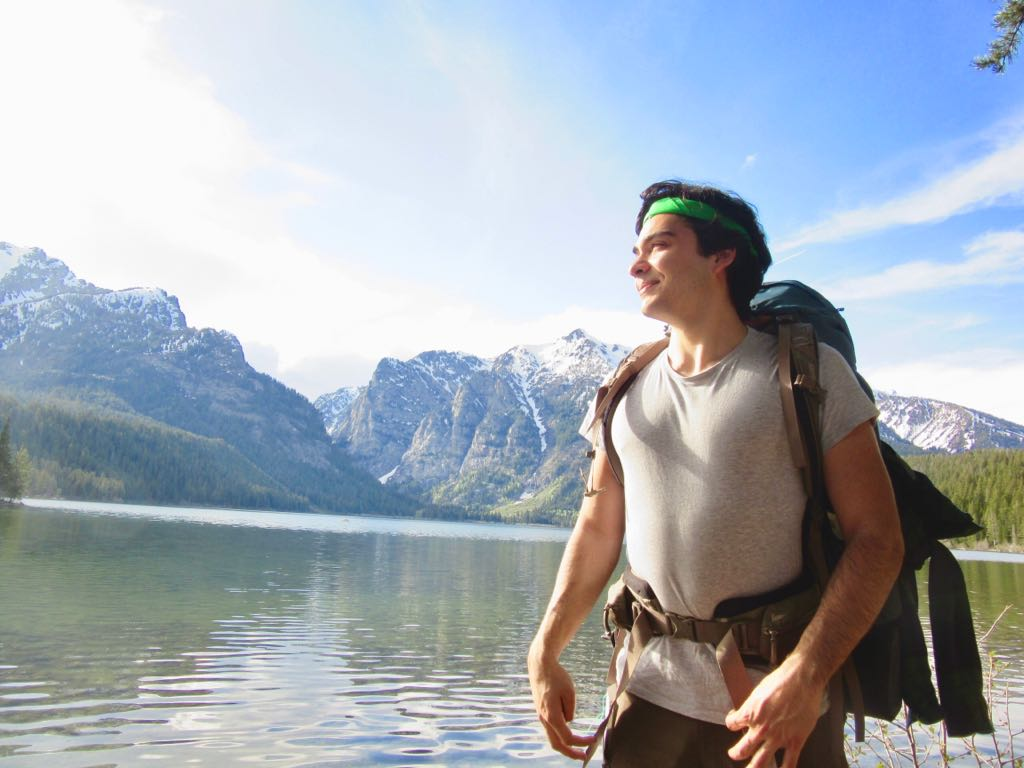
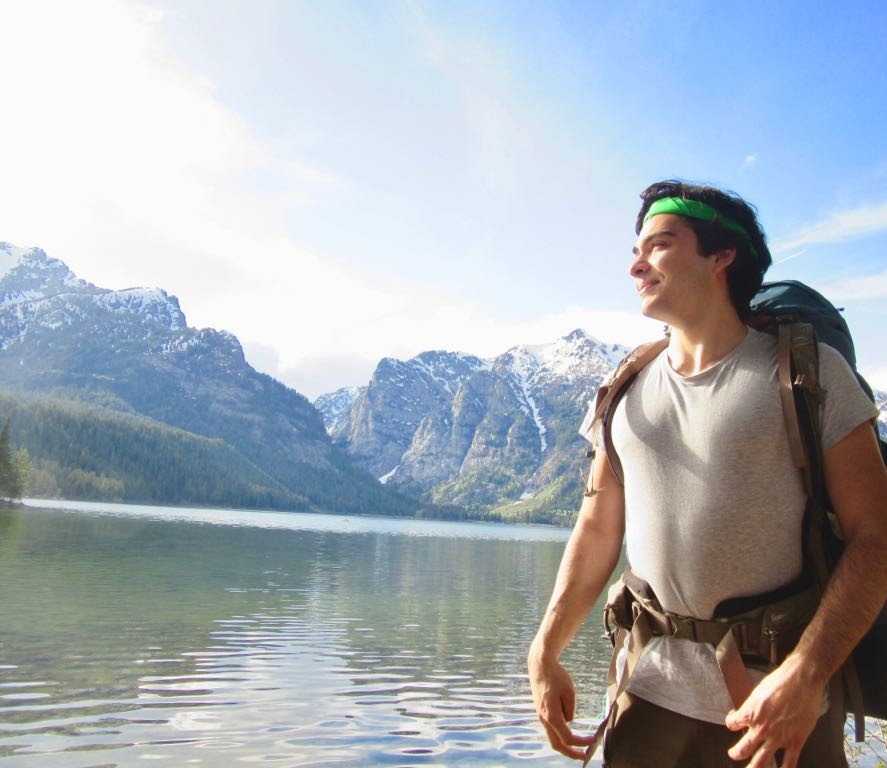
build3

diff --git a/index.html b/index.html
@@ -110,7 +110,7 @@
   <meta property="og:description" content="Undergraduate High Energy Physics Researcher"><meta property="og:image" content="https://georgehalal.github.io/img/IMG-4394.jpg">
   <meta property="og:locale" content="en-us">
   
-  <meta property="og:updated_time" content="2016-04-20T00:00:00-04:00">
+  <meta property="og:updated_time" content="2018-12-25T00:00:00-05:00">
   
 
   
@@ -473,7 +473,7 @@
           <li>
             <i class="fa-li fas fa-graduation-cap"></i>
             <div class="description">
-              <p class="course">High School, GPA: 4.00/4.00, Valedictorian, 2015</p>
+              <p class="course">High School, GPA: 4.00/4.00 (Valedictorian), 2015</p>
               <p class="institution">Eastwood International School, Beirut, Lebanon</p>
             </div>
           </li>
@@ -581,7 +581,7 @@
     
   
   <div class="col-12 col-sm-4">
-    <div class="featurette-icon"><i class="fas fa-tools"></i></div>
+    <div class="featurette-icon"><i class="fas fa-screwdriver"></i></div>
     <h3>Machine Shop</h3>
     <p>Metalworking &amp; Soldering, Woodworking, 3D printing</p>
   </div>
@@ -606,6 +606,115 @@
   
   
   
+  <section id="projects" class="home-section">
+    <div class="container">
+      
+
+
+
+
+
+
+
+<div class="row">
+  <div class="col-xs-12 col-md-4 section-heading">
+
+    <h1>Galleries</h1>
+    
+
+  </div>
+  <div class="col-xs-12 col-md-8">
+
+
+
+    
+
+    
+
+    <div class="row isotope projects-container js-layout-masonry ">
+      
+        
+        
+        
+          
+          
+        
+        
+          
+
+
+
+
+
+
+
+
+<div class="col-12 col-md-6 col-lg-4 project-item isotope-item js-id-Personal">
+  <div class="card">
+    
+    
+    <a href="https://photos.app.goo.gl/9QYQGXc6cE6xcK2HA" target="_blank" rel="noopener" class="card-image hover-overlay">
+      <img src="/project/personal/featured_huc0af036717db7c6f1665a8ee7a2e854b_132845_550x0_resize_q90_box.jpg" alt="" class="img-responsive">
+    </a>
+    
+    <div class="card-text">
+      <h4><a href="https://photos.app.goo.gl/9QYQGXc6cE6xcK2HA" target="_blank" rel="noopener">Personal</a></h4>
+      <div class="card-desription">
+        <p>A little glimpse of my life outside of research.</p>
+      </div>
+    </div>
+  </div>
+</div>
+
+        
+      
+        
+        
+        
+          
+          
+        
+        
+          
+
+
+
+
+
+
+
+
+<div class="col-12 col-md-6 col-lg-4 project-item isotope-item js-id-Research">
+  <div class="card">
+    
+    
+    <a href="https://photos.app.goo.gl/9c8oGNHsRDby5nmY7" target="_blank" rel="noopener" class="card-image hover-overlay">
+      <img src="/project/research/featured_hu21947e3bc96ed850046b815eae70687b_1294311_550x0_resize_q90_box.jpg" alt="" class="img-responsive">
+    </a>
+    
+    <div class="card-text">
+      <h4><a href="https://photos.app.goo.gl/9c8oGNHsRDby5nmY7" target="_blank" rel="noopener">Research</a></h4>
+      <div class="card-desription">
+        <p>Some of my hardware projects and groups I have worked with.</p>
+      </div>
+    </div>
+  </div>
+</div>
+
+        
+      
+    </div>
+
+  </div>
+</div>
+
+    </div>
+  </section>
+  
+
+  
+  
+  
   <section id="experience" class="home-section">
     <div class="container">
       
@@ -614,7 +723,7 @@
 
 <div class="row">
   <div class="col-12 col-lg-4 section-heading">
-    <h1>Analysis Experience</h1>
+    <h1>Analysis Projects</h1>
     
   </div>
   <div class="col-12 col-lg-8">
@@ -777,7 +886,7 @@
 
 <div class="row">
   <div class="col-12 col-lg-4 section-heading">
-    <h1>Hardware Experience</h1>
+    <h1>Hardware Projects</h1>
     
   </div>
   <div class="col-12 col-lg-8">
@@ -872,115 +981,6 @@
     </div>
     
     
-  </div>
-</div>
-
-    </div>
-  </section>
-  
-
-  
-  
-  
-  <section id="projects" class="home-section">
-    <div class="container">
-      
-
-
-
-
-
-
-
-<div class="row">
-  <div class="col-xs-12 col-md-4 section-heading">
-
-    <h1>Galleries</h1>
-    
-
-  </div>
-  <div class="col-xs-12 col-md-8">
-
-
-
-    
-
-    
-
-    <div class="row isotope projects-container js-layout-masonry ">
-      
-        
-        
-        
-          
-          
-        
-        
-          
-
-
-
-
-
-
-
-
-<div class="col-12 col-md-6 col-lg-4 project-item isotope-item js-id-Personal">
-  <div class="card">
-    
-    
-    <a href="https://photos.app.goo.gl/9QYQGXc6cE6xcK2HA" target="_blank" rel="noopener" class="card-image hover-overlay">
-      <img src="/project/personal/featured_huf59cf7bcc39fe7777b8024a33d21be43_86118_550x0_resize_q90_box.jpg" alt="" class="img-responsive">
-    </a>
-    
-    <div class="card-text">
-      <h4><a href="https://photos.app.goo.gl/9QYQGXc6cE6xcK2HA" target="_blank" rel="noopener">Personal</a></h4>
-      <div class="card-desription">
-        <p>A little glimpse of my life outside of research.</p>
-      </div>
-    </div>
-  </div>
-</div>
-
-        
-      
-        
-        
-        
-          
-          
-        
-        
-          
-
-
-
-
-
-
-
-
-<div class="col-12 col-md-6 col-lg-4 project-item isotope-item js-id-Research">
-  <div class="card">
-    
-    
-    <a href="https://photos.app.goo.gl/9c8oGNHsRDby5nmY7" target="_blank" rel="noopener" class="card-image hover-overlay">
-      <img src="/project/research/featured_hu17c7c210f3fe9bd15a528c02b8db2fa6_1963248_550x0_resize_q90_box.jpg" alt="" class="img-responsive">
-    </a>
-    
-    <div class="card-text">
-      <h4><a href="https://photos.app.goo.gl/9c8oGNHsRDby5nmY7" target="_blank" rel="noopener">Research</a></h4>
-      <div class="card-desription">
-        <p>Pictures of some of my hardware projects and some of the groups I have worked with.</p>
-      </div>
-    </div>
-  </div>
-</div>
-
-        
-      
-    </div>
-
   </div>
 </div>
 

diff --git a/project/research/index.html b/project/research/index.html
@@ -15,7 +15,7 @@
   
     
   
-  <meta name="description" content="Pictures of some of my hardware projects and some of the groups I have worked with.">
+  <meta name="description" content="Some of my hardware projects and groups I have worked with.">
 
   
   <link rel="alternate" hreflang="en-us" href="https://georgehalal.github.io/project/research/">
@@ -105,7 +105,7 @@
   <meta property="og:site_name" content="George Halal">
   <meta property="og:url" content="https://georgehalal.github.io/project/research/">
   <meta property="og:title" content="Research | George Halal">
-  <meta property="og:description" content="Pictures of some of my hardware projects and some of the groups I have worked with."><meta property="og:image" content="https://georgehalal.github.io/project/research/featured.jpg">
+  <meta property="og:description" content="Some of my hardware projects and groups I have worked with."><meta property="og:image" content="https://georgehalal.github.io/project/research/featured.jpg">
   <meta property="og:locale" content="en-us">
   
   <meta property="article:published_time" content="2018-12-25T00:00:00-05:00">
@@ -348,7 +348,7 @@
 
 
 <div class="article-header d-xl-none">
-  <div class="featured-image" style="background-image: url('/project/research/featured_hu17c7c210f3fe9bd15a528c02b8db2fa6_1963248_800x0_resize_q75_box.jpg');"></div>
+  <div class="featured-image" style="background-image: url('/project/research/featured_hu21947e3bc96ed850046b815eae70687b_1294311_800x0_resize_q75_box.jpg');"></div>
   <span class="article-header-caption">APS DNP Fall 2017 Meeting</span>
 </div>
 
@@ -492,7 +492,7 @@
     </div>
     <div class="col-6">
       <div class="split-header-image">
-        <img src="/project/research/featured_hu17c7c210f3fe9bd15a528c02b8db2fa6_1963248_680x500_fill_q90_box_smart1.jpg" itemprop="image" alt="">
+        <img src="/project/research/featured_hu21947e3bc96ed850046b815eae70687b_1294311_680x500_fill_q90_box_smart1.jpg" itemprop="image" alt="">
         <span class="article-header-caption">APS DNP Fall 2017 Meeting</span>
       </div>
     </div>

diff --git a/project/personal/index.html b/project/personal/index.html
@@ -348,7 +348,7 @@
 
 
 <div class="article-header d-xl-none">
-  <div class="featured-image" style="background-image: url('/project/personal/featured_huf59cf7bcc39fe7777b8024a33d21be43_86118_800x0_resize_q75_box.jpg');"></div>
+  <div class="featured-image" style="background-image: url('/project/personal/featured_huc0af036717db7c6f1665a8ee7a2e854b_132845_800x0_resize_q75_box.jpg');"></div>
   <span class="article-header-caption">Grand Tetons</span>
 </div>
 
@@ -492,7 +492,7 @@
     </div>
     <div class="col-6">
       <div class="split-header-image">
-        <img src="/project/personal/featured_huf59cf7bcc39fe7777b8024a33d21be43_86118_680x500_fill_q90_box_smart1.jpg" itemprop="image" alt="">
+        <img src="/project/personal/featured_huc0af036717db7c6f1665a8ee7a2e854b_132845_680x500_fill_q90_box_smart1.jpg" itemprop="image" alt="">
         <span class="article-header-caption">Grand Tetons</span>
       </div>
     </div>

diff --git a/project/index.html b/project/index.html
@@ -380,7 +380,7 @@
     <h2><a href="/project/research/">Research</a></h2>
     <div class="article-style">
       
-      Pictures of some of my hardware projects and some of the groups I have worked with.
+      Some of my hardware projects and groups I have worked with.
       
     </div>
   </div>

diff --git a/tags/research/index.html b/tags/research/index.html
@@ -371,7 +371,7 @@
     <h2><a href="/project/research/">Research</a></h2>
     <div class="article-style">
       
-      Pictures of some of my hardware projects and some of the groups I have worked with.
+      Some of my hardware projects and groups I have worked with.
       
     </div>
   </div>
